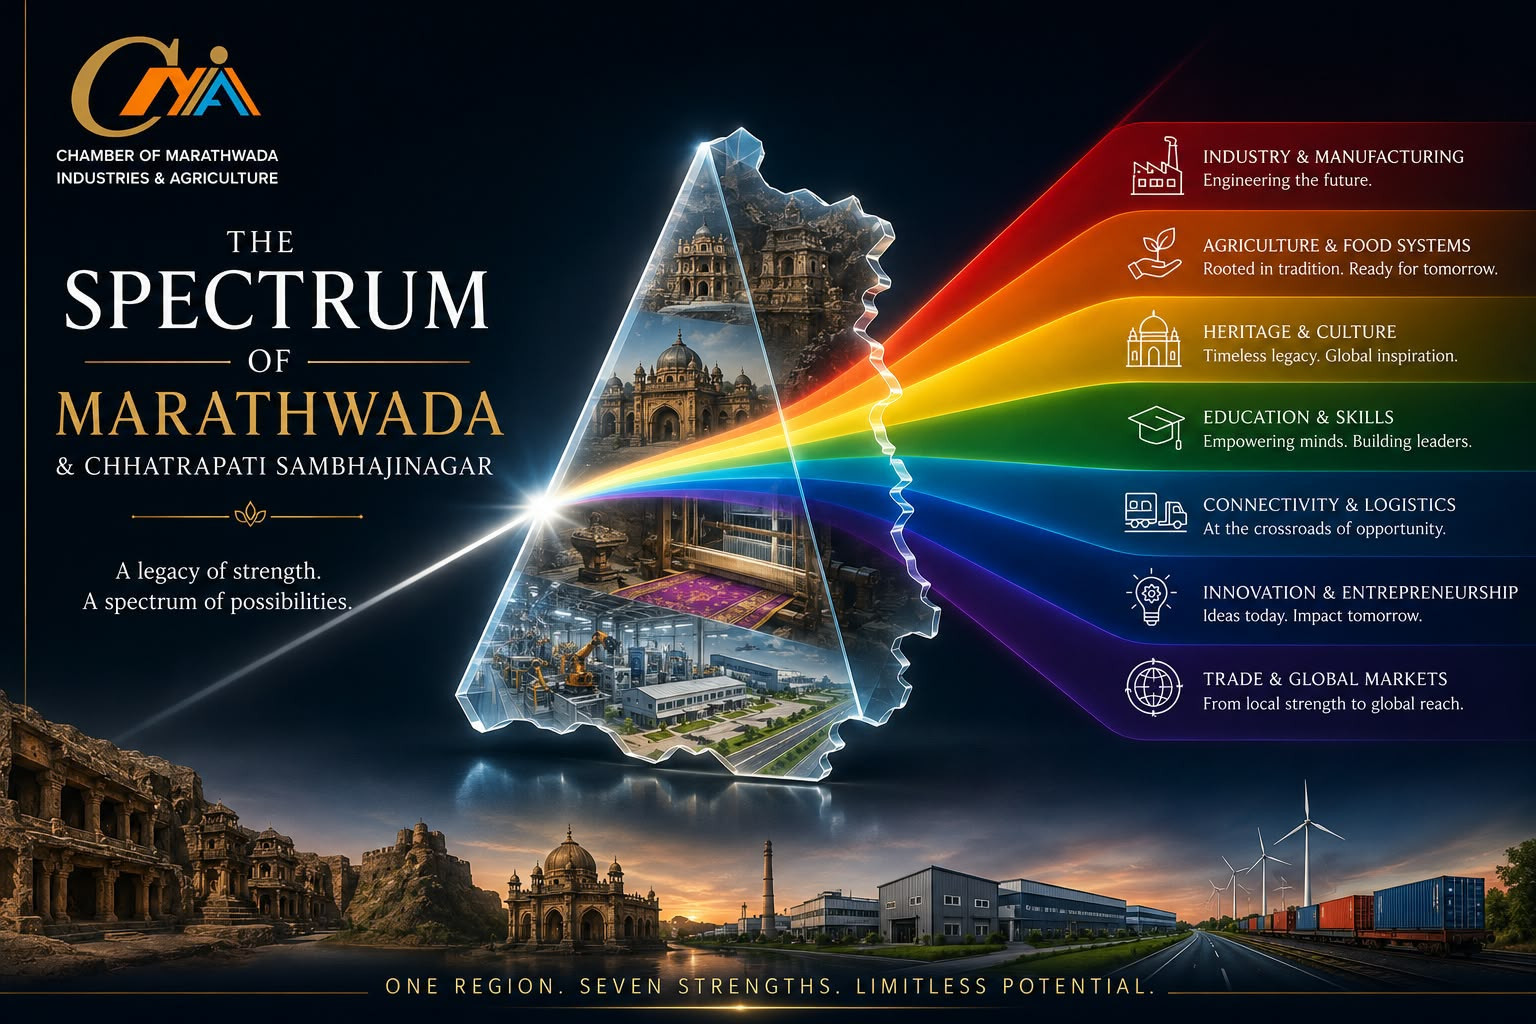
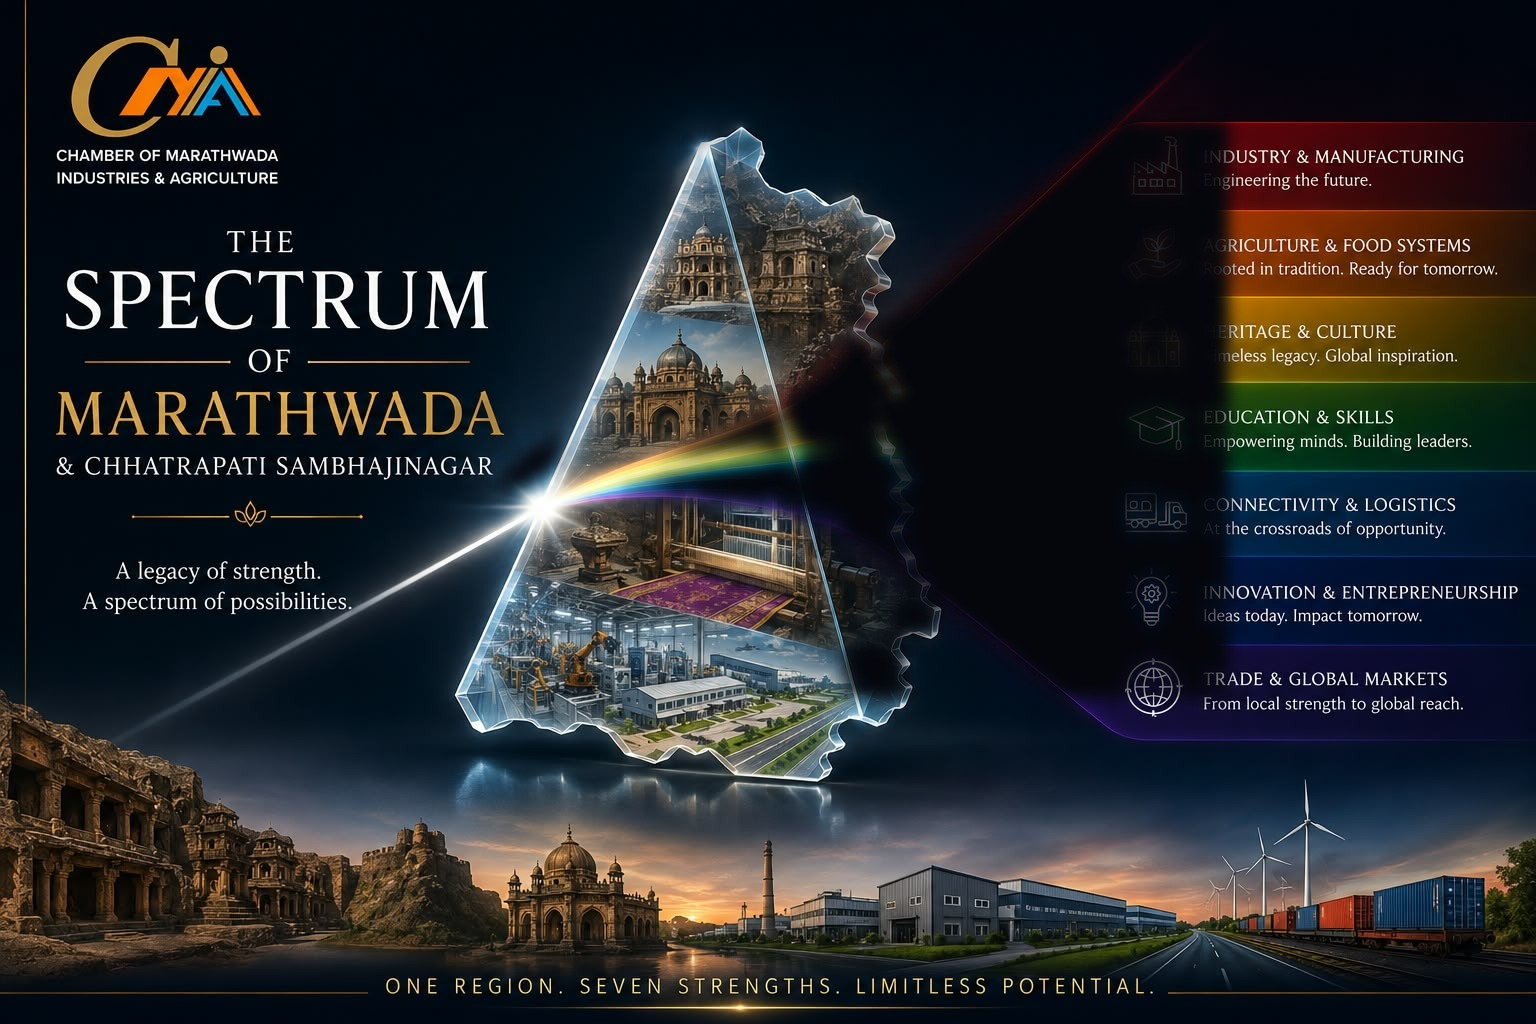
Fix doubled title text and hide the baked-in rainbow on the spectrum slide
- 04-spectrum.html/spectrum.css: the real .stage-title-block (crisp DOM
  text) was rendering on top of the same title baked into the photo,
  with no mask covering the baked copy — read as doubled/ghosted text.
  Added the missing .left-content-mask and made it permanently opaque
  (script.js's old fade-to-0.45 on click no longer applies).
- assets/background.jpg: the source photo has a full rainbow + map-border
  glow flattened in, which the interactive slide is meant to build up
  live via clicks, not show pre-rendered. Painted over the saturated
  rainbow/glow pixels directly (feathered, colour-threshold based),
  leaving the heritage/industrial collage photos untouched. A faint
  trace remains right at the crystal's inner seam — full removal there
  would need repainting in a real image editor.

diff --git a/spectrum.css b/spectrum.css
@@ -99,35 +99,34 @@
 /* Hides the rainbow and panels flattened into the source photo, so the only
    ribbon on screen is the one the stepper has revealed.
 
-   The falloff starts at 60% — just past the widest point of the map outline,
-   which measures at 60.7% — and reaches full black by 66%, well before the cards
-   begin. A soft ramp rather than a hard edge: the baked rainbow has to die
-   out as if the light were simply fading, not get sliced off by a seam.
-
-   Deliberately NOT pushed further left to also hide the rainbow bleed
-   between the crystal and this point — that bleed and the map's own jagged
-   outline occupy the same pixels, and the map has to stay untouched. */
+   Starts at 42% — just past the crystal's left vertex, where the baked
+   rainbow first bleeds out above and below the collage photos — and reaches
+   full black by 58%, just before the crystal's widest point (60.7%). A soft
+   ramp rather than a hard edge: the baked rainbow has to die out as if the
+   light were simply fading, not get sliced off by a seam. Pushed left of
+   the previous 60% cut because that left the whole fan of colour between
+   the prism and the crystal visible. */
 .panel-scrim{
   position: absolute;
-  left: 60%;
+  left: 42%;
   top: 4%;
-  width: 40%;
+  width: 58%;
   height: 73%;   /* stops short of the landscape strip along the bottom */
   pointer-events: none;
   background: linear-gradient(90deg,
     rgba(4,6,12,0) 0%,
-    rgba(4,6,12,.8) 9%,
-    var(--spec-bg) 15%,
+    rgba(4,6,12,.8) 18%,
+    var(--spec-bg) 28%,
     var(--spec-bg) 100%);
 }
 
 /* The "THE SPECTRUM OF MARATHWADA..." block is baked into the photo below
-   the logo (which stays put — only the title text fades). Hidden at load
-   (opacity 0, script.js's playRayEntrance() brings it in on the first
-   click) so the reveal reads as the light arriving and pulling focus
-   toward the prism, not a hard cut. var(--spec-bg) matches the panel's own
-   background, so the text dissolves into it rather than behind a visible
-   box; the diagonal fade on the right/bottom keeps the edge soft. */
+   the logo. .stage-title-block (real DOM text) is what actually reads now,
+   so this stays permanently opaque to hide the baked-in copy underneath —
+   without it, the baked pixels and the live text double up. var(--spec-bg)
+   matches the panel's own background, so the covered area dissolves into
+   it rather than reading as a visible box; the diagonal fade on the
+   right/bottom keeps the edge soft. */
 .left-content-mask{
   position: absolute;
   left: 0;
@@ -136,11 +135,11 @@
   height: 48%;
   z-index: 3;
   pointer-events: none;
-  opacity: 0;
+  opacity: 1;
   background: linear-gradient(115deg,
     var(--spec-bg) 0%,
-    var(--spec-bg) 55%,
-    rgba(4,6,12,.7) 75%,
+    var(--spec-bg) 70%,
+    rgba(4,6,12,.7) 85%,
     transparent 100%);
 }
 

diff --git a/04-spectrum.html b/04-spectrum.html
@@ -37,6 +37,12 @@
              so only our independent interactive layers are visible there. -->
         <div class="panel-scrim" aria-hidden="true"></div>
 
+        <!-- Covers the "THE SPECTRUM OF MARATHWADA..." title block baked into
+             the photo, so only the crisp real .stage-title-block below reads —
+             without this, the baked pixels and the live DOM text render on
+             top of each other as a doubled/ghosted title. -->
+        <div class="left-content-mask" aria-hidden="true"></div>
+
         <!-- The CMIA logo is baked into the artwork; this sits beside it,
              matching the "CMIA | 58" lockup on the brief. -->
         <img class="stage-58" src="assets/cmia-58-years.png"

diff --git a/script.js b/script.js
@@ -208,16 +208,9 @@
       });
     }
 
-    if (leftMask) {
-      // A dim, not a hide: the title has done its job once the light
-      // reaches the prism, but this is a fade, not a disappearance.
-      gsap.to(leftMask, {
-        opacity: 0.45,
-        duration: 0.9 * durScale,
-        ease: "sine.inOut",
-        delay: 0.3 * durScale,
-      });
-    }
+    // leftMask stays permanently opaque (spectrum.css) — it hides the baked
+    // title so the real .stage-title-block reads on its own, so there is
+    // nothing to animate here on the ray's arrival.
 
     // the light point at the prism switches on — both start at opacity 0
     // (see spectrum.css), so this is a reveal, not a flare. Settles at the
